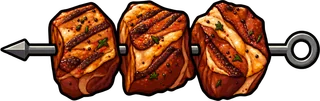
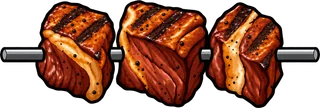
Lay the skewer, fish and marshmallow flat on the rack
Three of the six drawings did not read as sitting on anything. The fish
and the marshmallows were drawn diagonally with the stick running off to
the lower left, so with nobody holding them they hung in the air at an
angle. Both are redrawn threaded on a level horizontal stick, like the
pig and the skewer already were, which is what makes the rack legible as
something they rest on. The skewer's rod also came back with a spearhead
on one end and a ring on the other; the prompt now rules those out.

Turning them horizontal changes their aspect, and --dish-w is set against
the rack's width, so the old numbers would have rendered a 47px fish under
a 105px pig. Fish goes 52 to 64 and marshmallow 38 to 56. Re-measured
after: all five rack dishes meet the bar within 1-3px and corn still sits
127px lower in the ashes.

$0.16 for the three, and the prompts in .art-work/gen-all.mjs are updated
so a rerun keeps the fix.

Also fixes the screenshot harness, which had been lying. It forced a dish
into the slot and shot it, but the hearth serves its first dish about six
seconds in and re-renders over the top, so the first tile kept showing
whatever the real hearth was holding. A guard I added first compared the
value against itself after writing it, so it always passed. It now waits
for the real first dish before forcing anything.

diff --git a/assets/css/tavern.css b/assets/css/tavern.css
@@ -1043,10 +1043,10 @@ input[type="range"]:focus-visible { outline: 2px solid var(--accent); outline-of
    가로대 너비를 100 으로 두고 각자 제 몫만큼만 차지하게 한다. */
 .roast[data-dish="pig"]         { --dish-w: 100%; }
 .roast[data-dish="skewer"]      { --dish-w: 84%; }
-.roast[data-dish="fish"]        { --dish-w: 52%; }
+.roast[data-dish="fish"]        { --dish-w: 64%; }
+.roast[data-dish="marshmallow"] { --dish-w: 56%; }
 .roast[data-dish="corn"]        { --dish-w: 46%; }
 .roast[data-dish="cauldron"]    { --dish-w: 44%; }
-.roast[data-dish="marshmallow"] { --dish-w: 38%; }
 /* 잿더미에 놓인 것은 흔들리지 않는다 */
 .roast[data-seat="ashes"] .dish { animation: none; }
 @keyframes dishHang {

diff --git a/assets/art/README.md b/assets/art/README.md
@@ -13,10 +13,16 @@
 쇠 빛과 불빛이 같이 변해야 하는 것들이라, 그림으로 박아 두면 일곱 곳 중 여섯 곳에서 겉돕니다.
 벽 돌결도 그림이지만 `soft-light` 로 얹어 결만 빌려 오고 색은 CSS 가 냅니다.
 
+**걸이대에 얹히는 것은 가로로 눕혀 뽑습니다.** 꼬치·통돼지·마시멜로·물고기는
+곧은 가로 막대가 관통한 모습이라야 가로대에 걸린 것으로 읽힙니다. 비스듬히 뽑으면
+아무도 안 잡고 있는데 대각선으로 떠 있는 모양이 됩니다. 냄비는 서고, 감자와
+옥수수는 제 잿더미를 달고 나와 잉걸 위에 놓입니다.
+
 **크기는 그림이 아니라 CSS 가 정합니다.** `tavern.css` 의 `--dish-w` 를 보세요.
 상자에 맞춰 늘리면 그림마다 비율이 달라서 마시멜로가 통돼지만 해집니다. 그래서
 가로대 너비를 100 으로 두고 서로에 대해 정해 두었습니다 — 통돼지 100, 꼬치 84,
-물고기 52, 감자와 옥수수 46, 냄비 44, 마시멜로 38.
+물고기 64, 마시멜로 56, 감자와 옥수수 46, 냄비 44.
+그림을 다시 뽑아 가로세로 비가 바뀌면 이 값도 같이 봐 줘야 합니다.
 
 화로 안의 자리도 세 값으로 묶여 있습니다.
 
